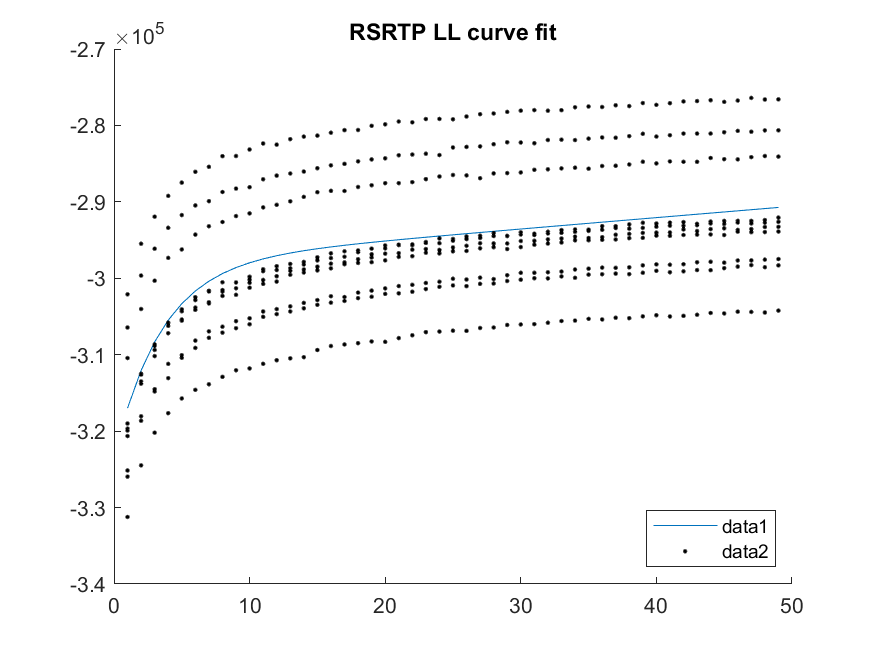
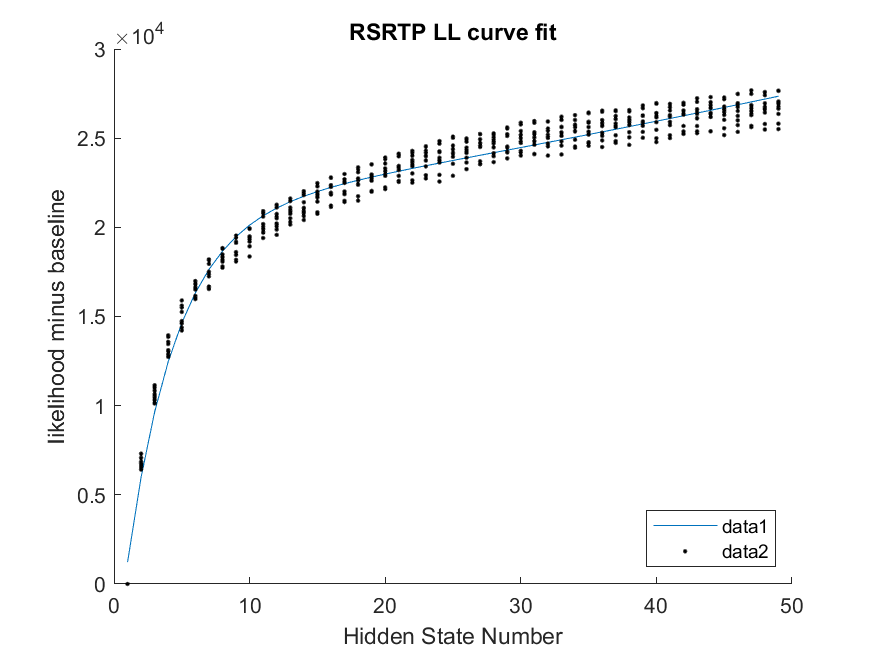
pushing figures

diff --git a/code/python_switching_models/matlab_reimport.m b/code/python_switching_models/matlab_reimport.m
@@ -242,13 +242,26 @@ elseif contains(filepath,'RS') || contains(filepath,'RJ')
         saveas(gcf,strcat(meta.figure_folder_filepath,'\',meta.subject,meta.task,'_LL_curve_fit.png'));
     else
         state_range_for_fit = repmat(state_range,[size(select_ll,1) 1]);
-        select_ll_for_fit = reshape(select_ll',[size(select_ll,1)*size(select_ll,2) 1]);
-        curve_exp = fit(state_range_for_fit,select_ll_for_fit,'exp2');
+%         select_ll_for_fit = reshape(select_ll',[size(select_ll,1)*size(select_ll,2) 1]);
+        
+        % Plotting LL curves according to Baseline
+        select_ll_for_plotting = [];
+        for iState = 1:size(select_ll,1)
+            select_ll_for_plotting(iState,:) = select_ll(iState,:) - select_ll(iState,1);
+        end
+        select_ll_for_plotting = reshape(select_ll_for_plotting',[size(select_ll_for_plotting,1)*size(select_ll_for_plotting,2) 1]);
+        curve_exp = fit(state_range_for_fit,select_ll_for_plotting,'exp2');
+
         figure('visible','on'); hold on
         plot(state_range,curve_exp(state_range))
-        plot(state_range_for_fit,select_ll_for_fit,'k.')
+        plot(state_range_for_fit,select_ll_for_plotting,'k.')
         title([meta.subject,meta.task,' LL curve fit'])
         legend('Location','southeast')
+        xlabel('Hidden State Number')
+        ylabel('likelihood minus baseline')
+        box off
+        set(gcf,'color','white')
+        
         if meta.move_only == 1
             meta.figure_folder_filepath = ['C:\Users\calebsponheim\Documents\git\intermittent_control_project\figures\' meta.subject '\' meta.task '_CT0_move_only\'];
         else

diff --git a/code/python_switching_models/train_rslds.py b/code/python_switching_models/train_rslds.py
@@ -146,8 +146,8 @@ def train_rslds(data, trial_classification, meta, bin_size, is_it_breaux, num_st
                          emissions="poisson",
                          single_subspace=True)
     rslds_lem.initialize(y)
-    q_elbos_lem, q_lem = rslds_lem.fit(y, method="bbvi",
-                                       variational_posterior="tridiag",
+    q_elbos_lem, q_lem = rslds_lem.fit(y, method="laplace_em",
+                                       variational_posterior="structured_meanfield",
                                        initialize=False, num_iters=1000)
     xhat_lem = q_lem.mean[0]
     zhat_lem = rslds_lem.most_likely_states(xhat_lem, y)
